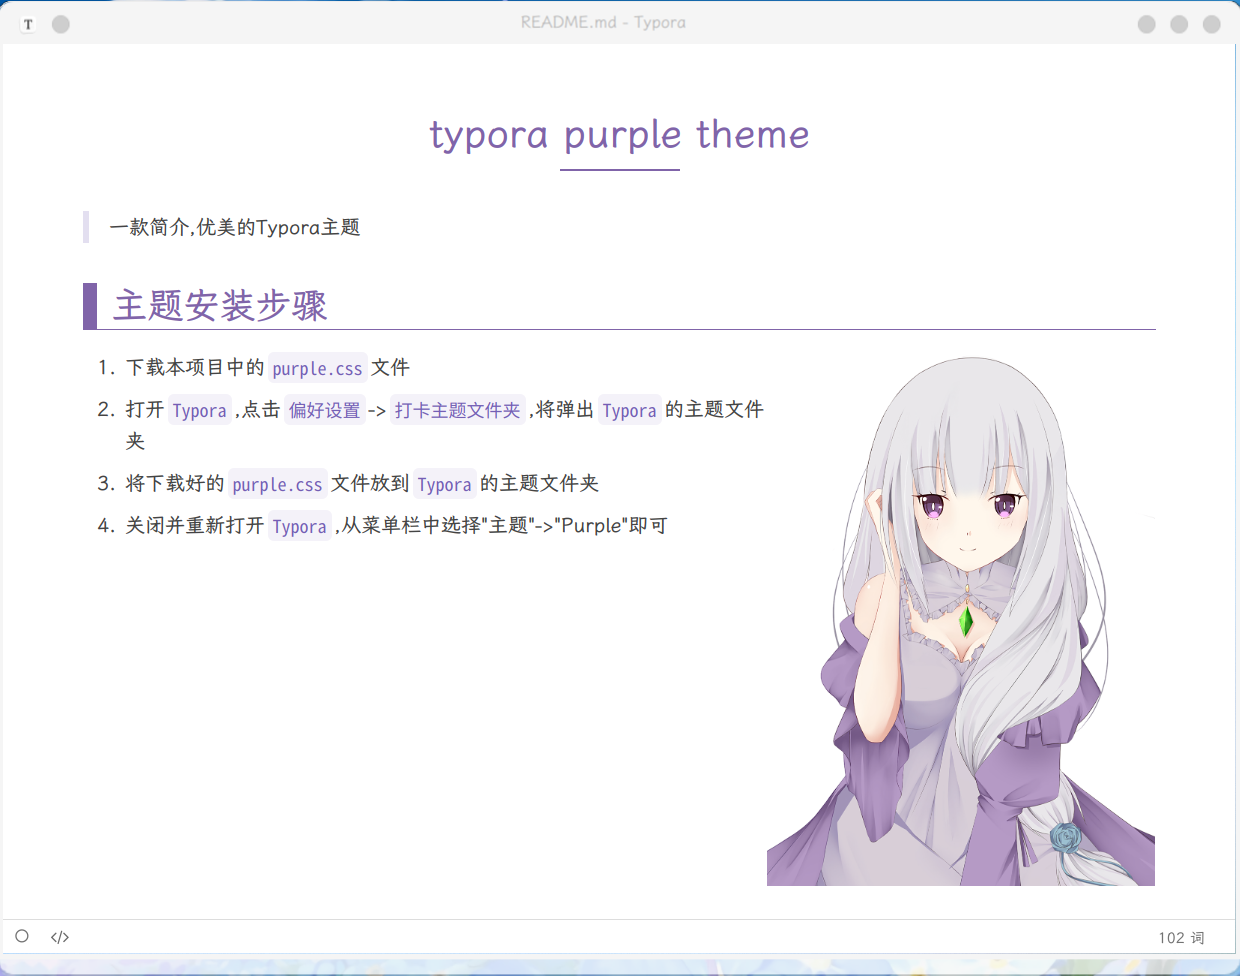
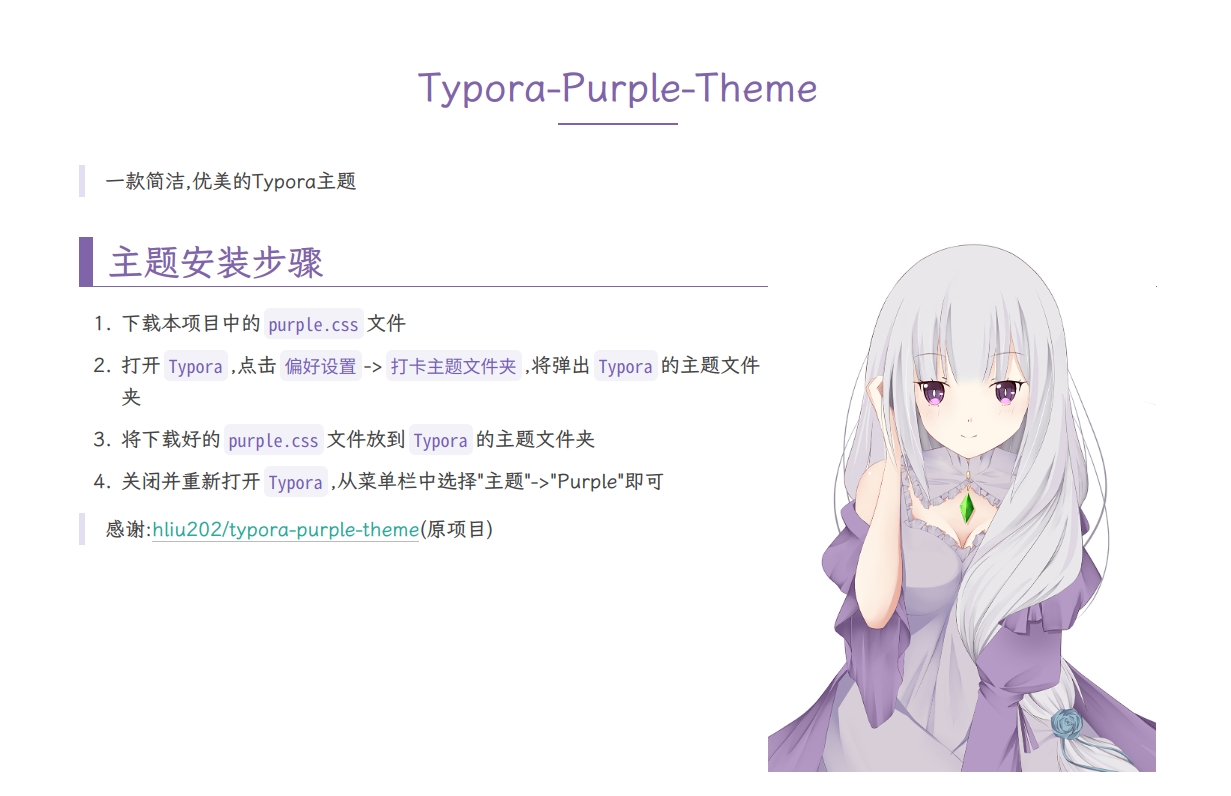
更改预览图,更改错字

diff --git a/ScreenShots/预览用.md b/ScreenShots/预览用.md
@@ -1,11 +1,12 @@
-# typora purple theme
+# Typora-Purple-Theme
 
-> 一款简介,优美的Typora主题
+> 一款简洁,优美的Typora主题
 
-## 主题安装步骤
+## 主题安装步骤<img src="./737761.png" style="zoom: 30%;" align=right />
 
-1. <img src="./737761.png" style="zoom: 30%;" align=right />下载本项目中的`purple.css`文件
+1. 下载本项目中的`purple.css`文件
 2. 打开`Typora`,点击`偏好设置`->`打卡主题文件夹`,将弹出`Typora`的主题文件夹
 3. 将下载好的`purple.css`文件放到`Typora`的主题文件夹
 4. 关闭并重新打开`Typora`,从菜单栏中选择"主题"->"Purple"即可
 
+> 感谢:[hliu202/typora-purple-theme](https://github.com/hliu202/typora-purple-theme?tab=readme-ov-file)(原项目)

diff --git a/README.md b/README.md
@@ -1,6 +1,6 @@
-# typora purple theme
+# Typora-Purple-Theme
 
-> 一款简介,优美的Typora主题
+> 一款简洁,优美的Typora主题
 
 ## 主题预览
 
